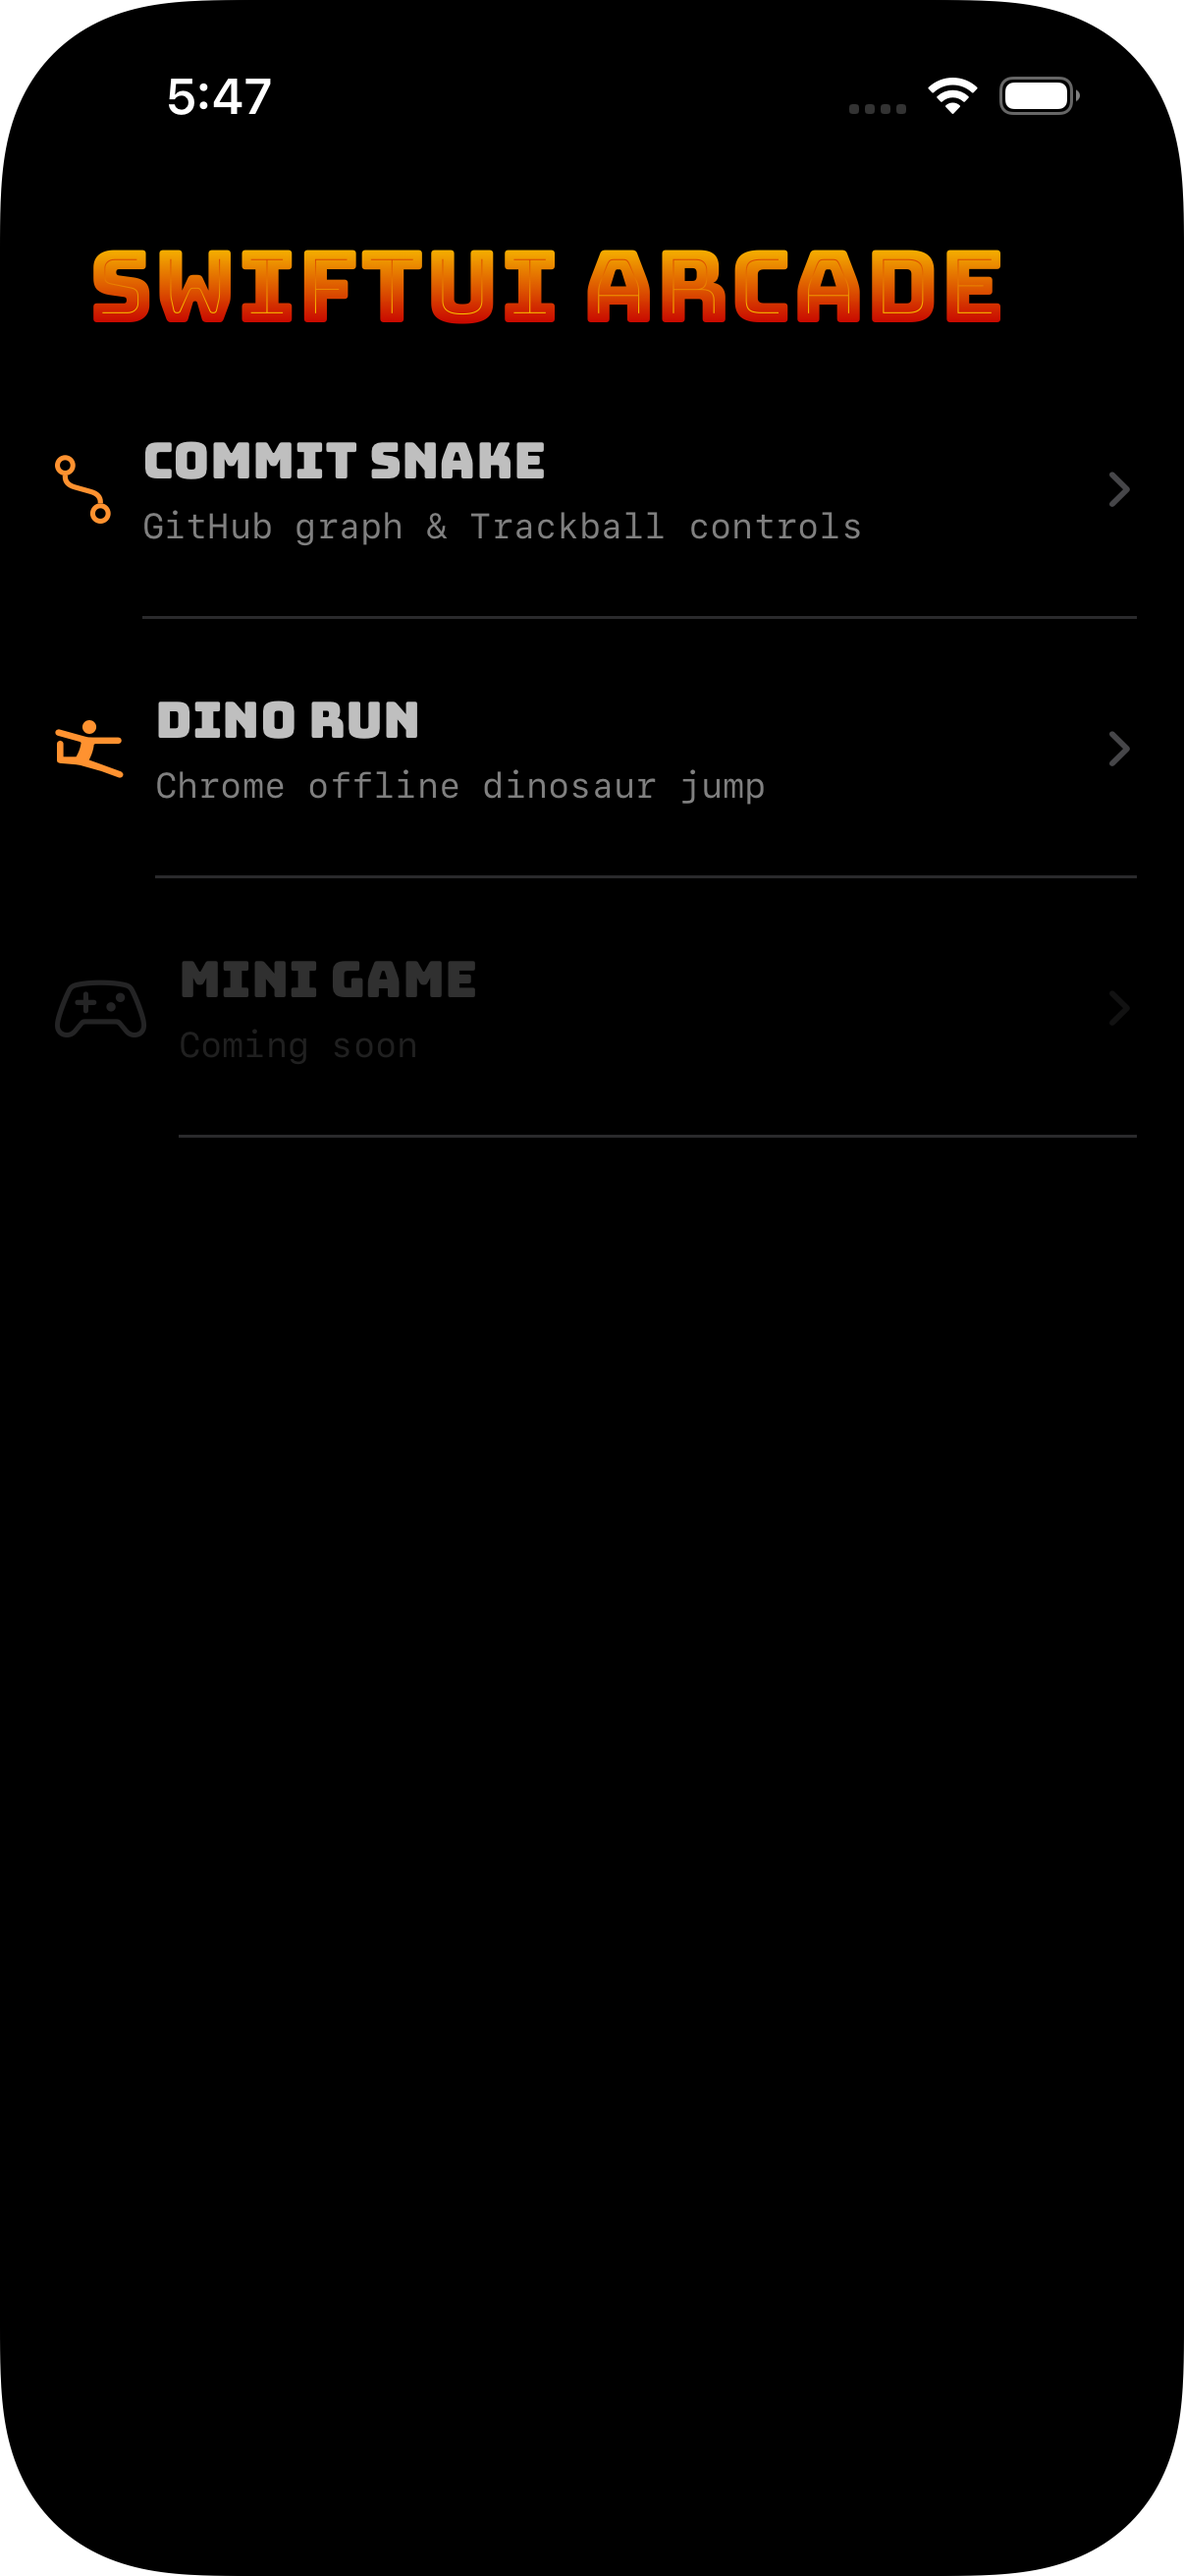
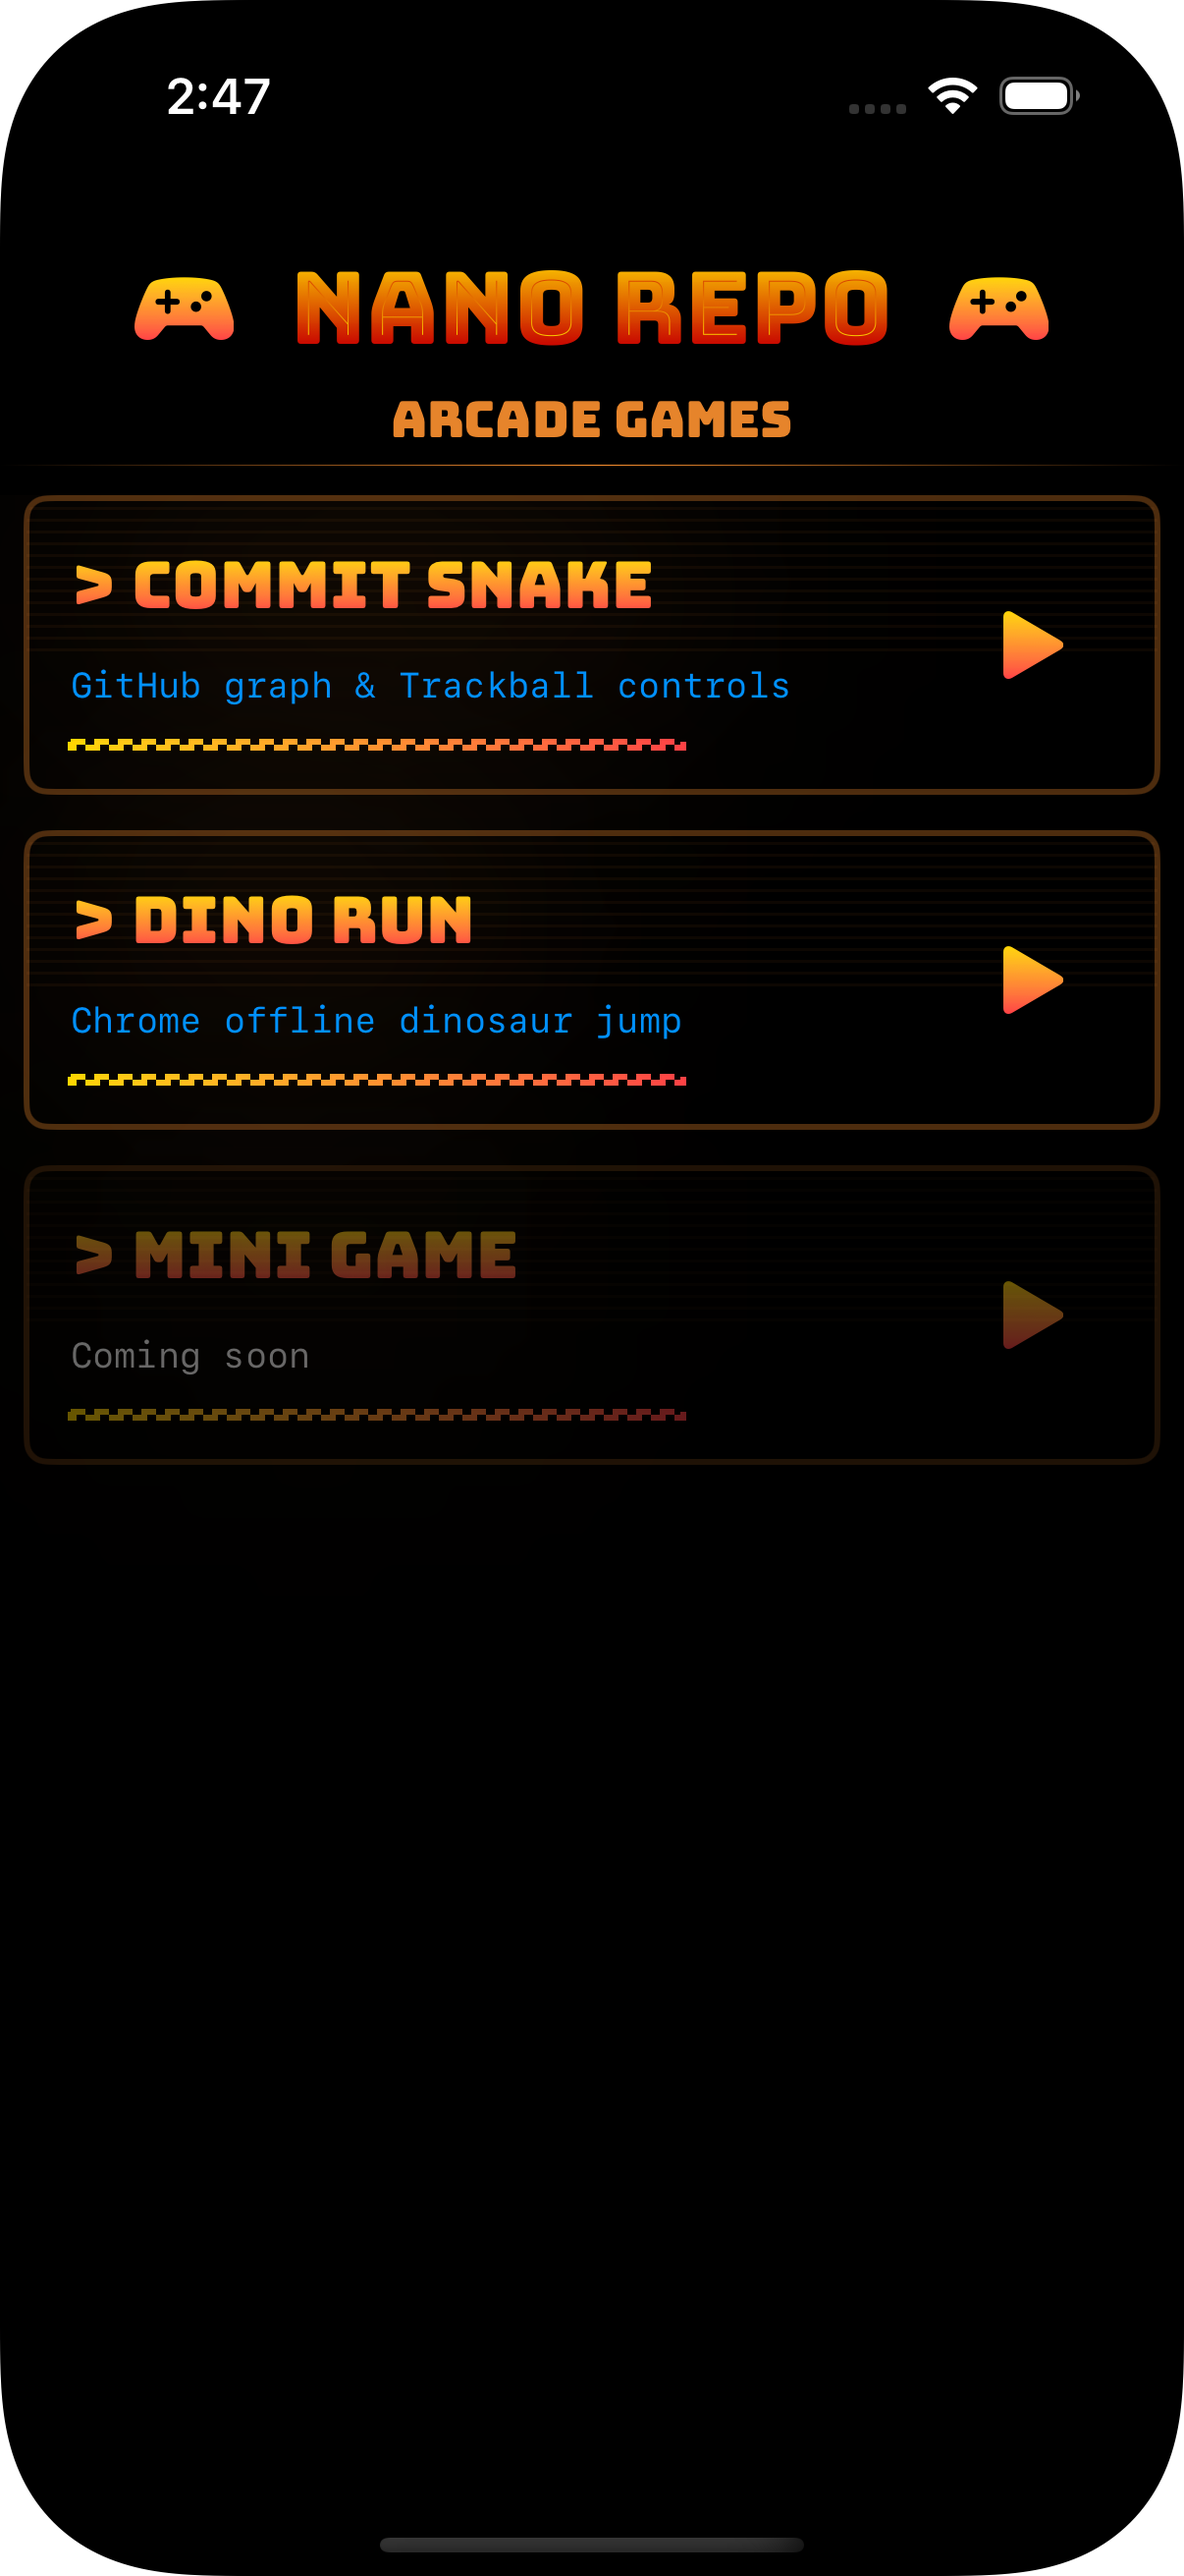
List Design update

diff --git a/Monorepo/Monorepo/Core/ArcadeHomeView.swift b/Monorepo/Monorepo/Core/ArcadeHomeView.swift
@@ -13,46 +13,78 @@ struct ArcadeHomeView: View {
     var body: some View {
         NavigationStack {
             VStack(spacing: 0) {
-                Text("SwiftUI Arcade")
-                    .font(.bungeeSpiceLargeTitle)
-                    .fontWeight(.heavy)
-                    .frame(height: 50)
-                    .frame(maxWidth: .infinity, alignment: .leading)
-                    .padding(.horizontal, 30)
-                    .padding(.top, 10)
-                
-                List(games) { game in
-                    NavigationLink(value: game) {
-                        HStack(spacing: 8) {
-                            Image(systemName: game.info.icon)
-                                .font(.bungeeTitle2)
-                                .foregroundStyle(game.info.isAvailable ? .orange : .gray)
+                // Arcade Header
+                VStack(spacing: 4) {
+                    HStack(spacing: 16) {
+                            Image(systemName: "gamecontroller.fill")
+                                .font(.system(size: 24))
+                                .foregroundStyle(
+                                    LinearGradient(
+                                        colors: [.yellow, .orange, .red],
+                                        startPoint: .top,
+                                        endPoint: .bottom
+                                    )
+                                )
                             
-                            VStack(alignment: .leading) {
-                                Text(game.info.title)
-                                    .font(.bungeeHeadline)
-                                    .foregroundStyle(.primary.opacity(0.75))
-                                Text(game.info.note)
-                                    .font(.caption)
-                                    .fontDesign(.monospaced)
-                                    .foregroundStyle(.secondary)
-                            }
+                            Text("Nano Repo")
+                                .font(.bungeeSpiceLargeTitle)
+                                .foregroundStyle(
+                                    LinearGradient(
+                                        colors: [.green, .white, .green],
+                                        startPoint: .topTrailing,
+                                        endPoint: .bottomLeading
+                                    )
+                                )
+                            
+                            Image(systemName: "gamecontroller.fill")
+                                .font(.system(size: 24))
+                                .foregroundStyle(
+                                    LinearGradient(
+                                        colors: [.yellow, .orange, .red],
+                                        startPoint: .top,
+                                        endPoint: .bottom
+                                    )
+                                )
                         }
-                        .padding(.vertical, 8)
-                    }
-                    .listRowBackground(Color.clear)
-                    .disabled(!game.info.isAvailable)
-                    .opacity(game.info.isAvailable ? 1 : 0.5)
+                    
+                    Text("ARCADE GAMES")
+                        .font(.bungeeBody)
+                        .foregroundStyle(.orange.opacity(0.9))
+                    
+                    Rectangle()
+                        .frame(maxHeight: 0.5)
+                        .foregroundStyle(
+                            LinearGradient(
+                                colors: [.clear, .orange, .clear],
+                                startPoint: .trailing,
+                                endPoint: .leading
+                            )
+                        )
                 }
-                // Centralized navigation logic
-                .listStyle(.plain)
+                .padding(.top, 20)
+                .padding(.bottom, 10)
+                
+                // Game List
+                ScrollView {
+                    VStack(spacing: 12) {
+                        ForEach(games) { game in
+                            NavigationLink(value: game) {
+                                ArcadeGameRow(game: game)
+                            }
+                            .disabled(!game.info.isAvailable)
+                        }
+                    }
+                    .padding(.horizontal, 8)
+                }
                 .navigationDestination(for: GameRoute.self) { route in
                     route.destination()
                 }
                 .navigationBarHidden(true)
-                .scrollContentBackground(.hidden)
-                .background(.clear)
             }
         }
     }
+}
+
+#Preview {
+    ArcadeHomeView()
 }

diff --git a/Monorepo/Monorepo/Core/ArcadeGameRow.swift b/Monorepo/Monorepo/Core/ArcadeGameRow.swift
@@ -1,0 +1,88 @@
+//
+//  ArcadeGameRow.swift
+//  Monorepo
+//
+//  Created by codeAlligator on 01/02/26.
+//
+
+import SwiftUI
+
+struct ArcadeGameRow: View {
+    let game: GameRoute
+
+    var body: some View {
+        HStack(alignment: .center, spacing: 8) {
+            // Game Title with retro glow
+            VStack(alignment: .leading, spacing: 12) {
+                Text("> \(game.info.title.uppercased())")
+                    .font(.bungeeTitle2)
+                    .foregroundStyle(
+                        LinearGradient(
+                            colors: [.yellow, .orange, .red],
+                            startPoint: .top,
+                            endPoint: .bottom
+                        )
+                    )
+                    .shadow(color: .orange.opacity(0.7), radius: 50)
+                
+                // Subtitle
+                Text(game.info.note)
+                    .font(.system(size: 12, design: .monospaced))
+                    .foregroundStyle(.primary)
+                
+                Rectangle()
+                    .stroke(
+                        LinearGradient(
+                            colors: [.yellow, .orange, .red],
+                            startPoint: .leading,
+                            endPoint: .trailing
+                        ),
+                        style: StrokeStyle(lineWidth: 2, dash: [5, 3]) // [dash length, gap length]
+                    )
+                    .frame(width: 208, height: 2)
+            }
+            .frame(maxWidth: .infinity, alignment: .leading)
+            Spacer()
+            
+            Image(systemName: "play.fill")
+                .font(.bungeeSpiceTitle)
+                .foregroundStyle(
+                    LinearGradient(
+                        colors: [.yellow, .orange, .red],
+                        startPoint: .top,
+                        endPoint: .bottom
+                    )
+                )
+                .padding(.trailing, 16)
+                
+        }
+        .frame(maxWidth: .infinity, alignment: .leading)
+        .padding()
+        .background(
+            RoundedRectangle(cornerRadius: 8)
+                .fill(.clear.opacity(0.8))
+                .overlay(
+                    // CRT scan lines with proper masking
+                    GeometryReader { geo in
+                        VStack(spacing: 3) {
+                            ForEach(0..<Int(geo.size.height / 7), id: \.self) { _ in
+                                Rectangle()
+                                    .fill(.orange.opacity(0.05))
+                                    .frame(height: 1)
+                            }
+                        }
+                    }
+                    .mask(
+                        RoundedRectangle(cornerRadius: 8)
+                            .inset(by: 1) // Inset by border width
+                    )
+                )
+                .overlay(
+                    RoundedRectangle(cornerRadius: 8)
+                        .strokeBorder(.orange.opacity(0.3), lineWidth: 2)
+                )
+        )
+        .opacity(game.info.isAvailable ? 1.0 : 0.4)
+    }
+}
+

diff --git a/Monorepo/Monorepo/Cards/RetroCRTScreenEffectArcadeGameCard.swift b/Monorepo/Monorepo/Cards/RetroCRTScreenEffectArcadeGameCard.swift
@@ -1,0 +1,59 @@
+//
+//  RetroCRTScreenEffectArcadeGameCard.swift
+//  Monorepo
+//
+//  Created by codeAlligator on 31/01/26.
+//
+
+import SwiftUI
+
+struct OriginalRetroCRTScreenEffectArcadeGameCard: View {
+    let game: GameRoute
+    
+    var body: some View {
+        VStack(alignment: .leading, spacing: 8) {
+            // Game Title with retro glow
+            Text("> " + game.info.title.uppercased())
+                .font(.system(size: 20, weight: .bold, design: .monospaced))
+                .foregroundStyle(.green)
+                .shadow(color: .green, radius: 5)
+            
+            // Subtitle
+            Text(game.info.note)
+                .font(.system(size: 12, design: .monospaced))
+                .foregroundStyle(.green.opacity(0.7))
+            
+            // Pixel separator
+            HStack(spacing: 2) {
+                ForEach(0..<20) { _ in
+                    Rectangle()
+                        .fill(.green.opacity(0.3))
+                        .frame(width: 8, height: 2)
+                }
+            }
+        }
+        .frame(maxWidth: .infinity, alignment: .leading)
+        .padding(20)
+        .background(
+            RoundedRectangle(cornerRadius: 8)
+                .fill(.black.opacity(0.8))
+                .overlay(
+                    // CRT scan lines
+                    GeometryReader { geo in
+                        VStack(spacing: 3) {
+                            ForEach(0..<Int(geo.size.height / 6), id: \.self) { _ in
+                                Rectangle()
+                                    .fill(.white.opacity(0.03))
+                                    .frame(height: 1)
+                            }
+                        }
+                    }
+                )
+                .overlay(
+                    RoundedRectangle(cornerRadius: 8)
+                        .strokeBorder(.green.opacity(0.5), lineWidth: 2)
+                )
+        )
+        .opacity(game.info.isAvailable ? 1.0 : 0.4)
+    }
+}

diff --git a/Monorepo/Monorepo/Experiments/DinosaurGame/GameOverView.swift b/Monorepo/Monorepo/Experiments/DinosaurGame/GameOverView.swift
@@ -16,13 +16,12 @@ struct GameOverView: View {
             if state == .gameOver {
                 Text("GAME OVER")
                     .font(.bungeeSpiceTitle)
-                    .foregroundStyle(.red)
                     .opacity(isVisible ? 1 : 0)
             }
             
             Text(state == .idle ? "TAP TO START" : "TAP TO RESTART")
                 .font(.bungeeHeadline)
-                .foregroundStyle(state == .idle ? .orange : .secondary)
+                .foregroundStyle(state == .idle ? .gray : .secondary)
                 .opacity(state == .idle ? (isVisible ? 1 : 0.3) : 1)
         }
         .onAppear {

diff --git a/Monorepo/Monorepo/Experiments/DinosaurGame/DinoGameView.swift b/Monorepo/Monorepo/Experiments/DinosaurGame/DinoGameView.swift
@@ -1,5 +1,5 @@
 //
-//  DinoGameView.swift
+//  DinoRunGame.swift
 //  Monorepo
 //
 //  Created by codeAlligator on 31/01/26.
@@ -33,6 +33,7 @@ struct DinoRunGame: View {
                 Spacer()
                 Text((String(format: "%.1fx", engine.speedMultiplier)))
                     .font(.bungeeSpiceBody)
+                    .foregroundStyle(.green.opacity(0.8))
                     .monospacedDigit()
             }
             .padding(.horizontal)
@@ -92,4 +93,8 @@ struct DinoRunGame: View {
         case .gameOver: return "RETRY"
         }
     }
+}
+
+#Preview {
+    DinoRunGame()
 }

diff --git a/Monorepo/Monorepo/Core/GameRoute.swift b/Monorepo/Monorepo/Core/GameRoute.swift
@@ -44,10 +44,13 @@ enum GameRoute: Hashable, Identifiable {
     @ViewBuilder
     func destination() -> some View {
         destinationView()
-            .navigationTitle(info.title)
             .navigationBarTitleDisplayMode(.inline)
-            .font(.bungeeSpiceTitle)
-
+            .toolbar {
+                ToolbarItem(placement: .principal) {
+                    Text(info.title)
+                        .font(.bungeeSpiceTitle3)
+                }
+            }
     }
     
     @ViewBuilder

diff --git a/Monorepo/Monorepo/Experiments/SnakeGame/CommitGridView.swift b/Monorepo/Monorepo/Experiments/SnakeGame/CommitGridView.swift
@@ -43,7 +43,7 @@ struct CommitSquare: View {
         if isSnake {
             return snakeColor
         } else if isFood {
-            return .red
+            return .pink
         } else {
             // Adaptive gray for the "no-activity" squares
             return colorScheme == .dark ? Color.white.opacity(0.1) : Color.black.opacity(0.05)

diff --git a/Monorepo/Monorepo/Experiments/SnakeGame/CommitSnakeGame.swift b/Monorepo/Monorepo/Experiments/SnakeGame/CommitSnakeGame.swift
@@ -1,5 +1,5 @@
 //
-//  CommitSnakeGameView.swift
+//  CommitSnakeGame.swift
 //  Monorepo
 //
 //  Created by codeAlligator on 30/01/26.
@@ -63,4 +63,8 @@ struct CommitSnakeGame: View {
             }
         }
     }
+}
+
+#Preview {
+    CommitSnakeGame()
 }
